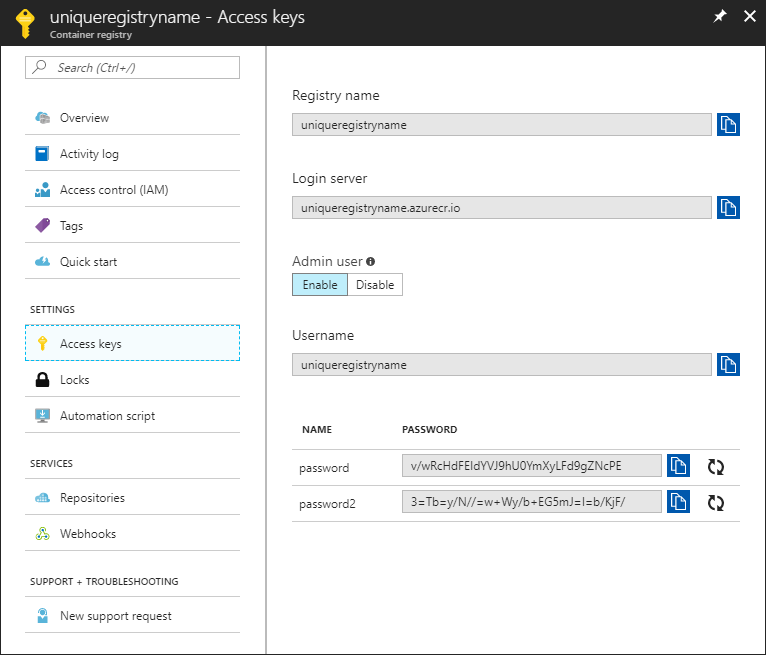
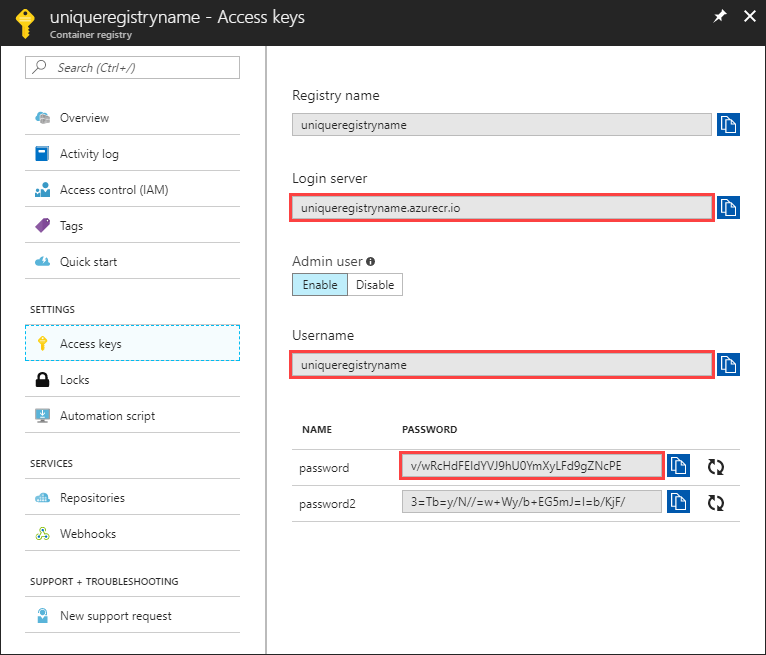
[acr] new article: quickstart - portal

diff --git a/articles/container-registry/container-registry-get-started-portal.md b/articles/container-registry/container-registry-get-started-portal.md
@@ -51,7 +51,13 @@ Log in to the Azure portal at http://portal.azure.com.
 
    ![Creating a container registry in the Azure portal][qs-portal-05]
 
-6. Under **Admin user**, select **Enabled**. Take note of the login server, username, and one of the passwords for your registry. You use these values in the following steps when interacting with your registry with the Docker CLI.
+6. Under **Admin user**, select **Enabled**. Take note of the following values:
+
+   * Login server
+   * Username
+   * password
+
+   You use these values in the following steps while working with your registry with the Docker CLI.
 
    ![Creating a container registry in the Azure portal][qs-portal-06]
 
@@ -59,21 +65,21 @@ Log in to the Azure portal at http://portal.azure.com.
 
 In order to push an image to your registry, you need to have one on your local machine.
 
-## Push an image to the registry
+## Push the image to Azure Container Registry
 
 Now that you've pulled an image from Docker hub, you're ready to push it to your Azure Container Registry.
 
 1. Tag image
 2. Push image
 
-## List images in the registry
+## List the images in your container registry
 
 1. List images
 2. List tags
 
 ## Clean up resources
 
-When no longer needed, delete the **myResourceGroup** resource group. Doing so will delete resource group and all related resources, including the container registry you created earlier.
+When no longer needed, delete the **myResourceGroup** resource group. Doing so will delete the resource group and all related resources, including the container registry you created earlier.
 
 ![Creating a container registry in the Azure portal][qs-portal-08]
 
